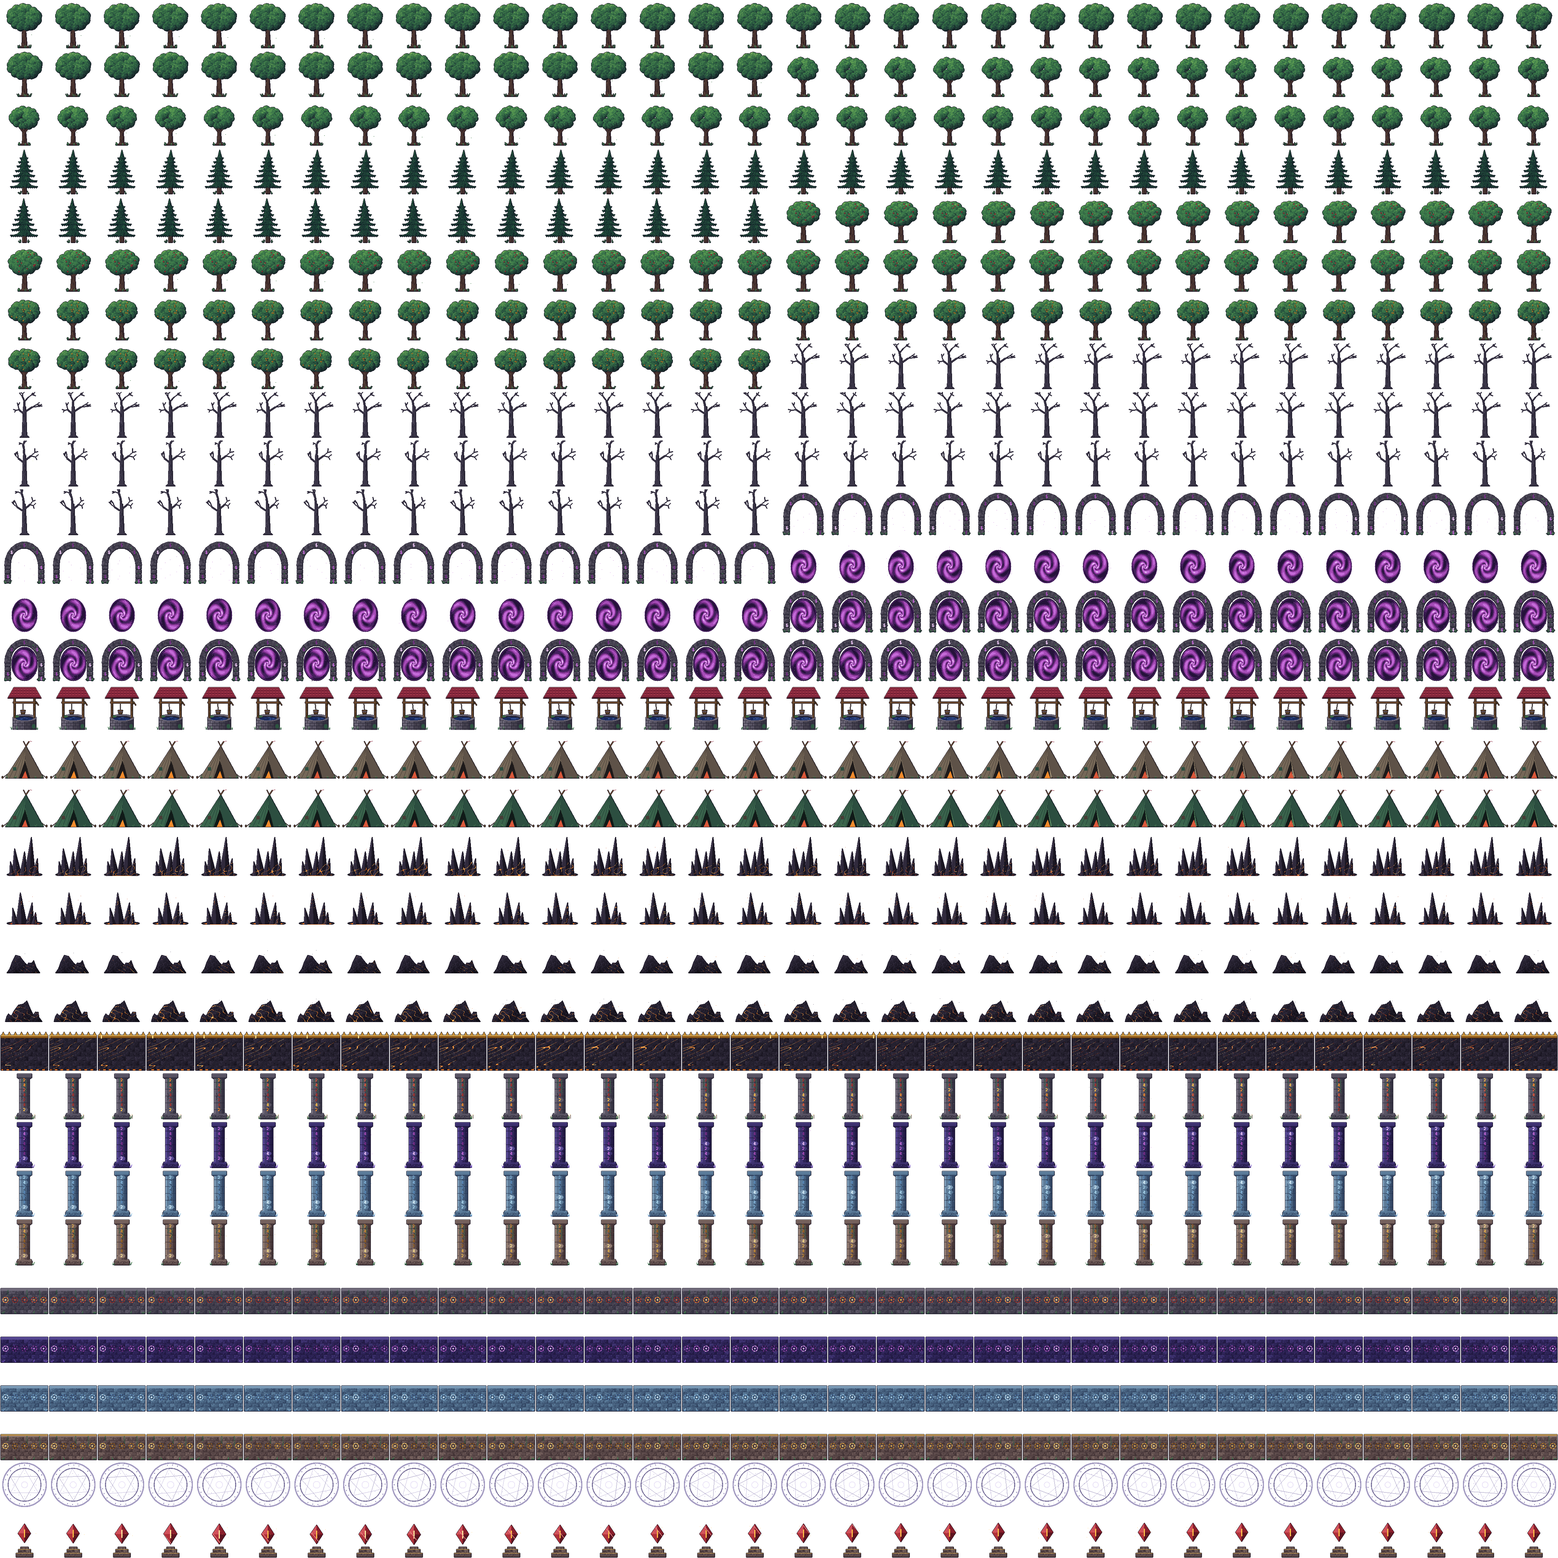
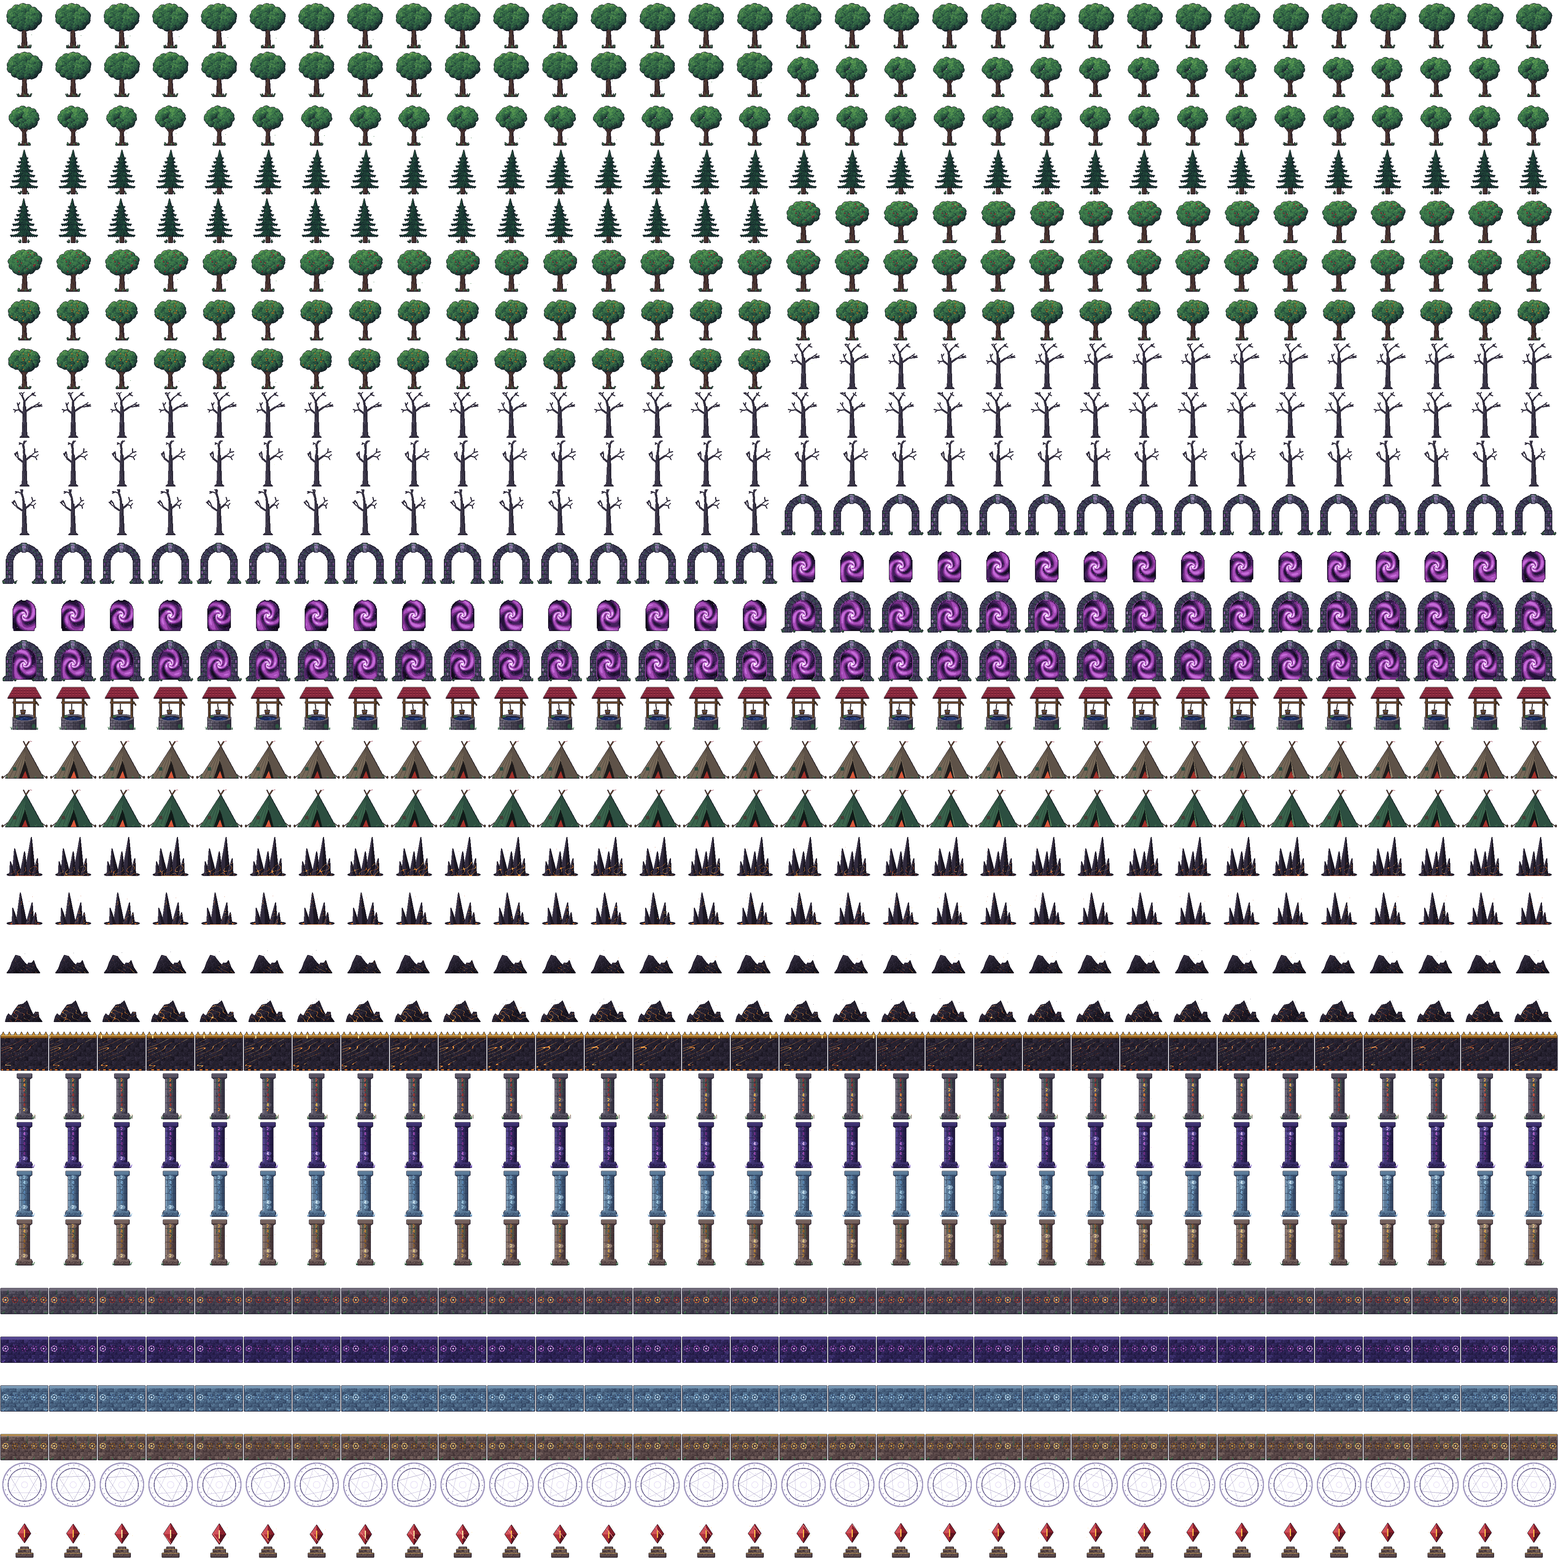
props3: исправленный арт Художника — портал в форме props2 (арка + скруглённый вихрь), чистка _glow (README §7a/§7b)
- листы p64/b128/x64 (+_glow), атлас, README, SELFCHECK; ключи/кадры/позиции прежние
- fallback_v2.json пуст (портал снова из props3); механизм и переключатель «🖼 Графика» → fallbackV2 остаются
- lightEmitter: статичные огни (все, кроме качающихся MOVING) — центроид объединения всех кадров (u), по README §7b
- тесты: эмиттер = общий центроид ±1 px и одна точка на все кадры, сверка с таблицей §7b ±1.5 px, пустой _glow у ключей без свечения;
  стены арены без рун-свечения — по решению Художника
- debug.mood(k) — настроение сцены для снимков «день/ночь»; props3-shots SHOTS=portalfix

Changed region(s): [[0.0, 0.3125, 1.0, 0.4375]]

diff --git a/src/pages/MorrisCurse/_core/engine/lightEmitter.js b/src/pages/MorrisCurse/_core/engine/lightEmitter.js
@@ -1,6 +1,7 @@
 // Точка излучения огня (фонарь — у головы фонаря, факел — у пламени, костёр — у огня), а не центр текстуры спрайта.
 // Источник — центроид светящихся пикселей кадра *_glow (вес = яркость × альфа), посчитан по кадрам генератором
 // tools/mc-sprites/light-emitters.mjs → assets/mc/light_emitters.json (оба набора: v2 props2 и v3 props3). OVERRIDE — ручные правки.
+// Статичные огни (static: все, кроме качающихся MOVING) — одна точка u: центроид объединения всех кадров (README §7b), остальные — по кадрам.
 // Ореол ставится в эту точку (за спрайтом), пятно света — на землю прямо под ней (atmosphere.js).
 import E from '../../../../assets/mc/light_emitters.json';
 import { PROP_SET, GFX } from './gfxCfg.js';
@@ -20,7 +21,7 @@ export function lightEmitter(key, frame = 0, set = PROP_SET) {
   const S = E.sets[set], d = S?.keys[key]; if (!d) return null;
   const f = ((Math.floor(frame) % d.frames) + d.frames) % d.frames;
   const ov = adminOv(set, key) || OVERRIDE[`${set}:${key}`];
-  const p = (Array.isArray(ov) ? ov : ov?.[f]) || d.pts[f] || d.pts.find(Boolean); if (!p) return null;
+  const p = (Array.isArray(ov) ? ov : ov?.[f]) || (d.static && d.u) || d.pts[f] || d.pts.find(Boolean); if (!p) return null; // статичный — общий центроид всех кадров
   return { dx: (p[0] - d.fw / 2) / S.pxm, h: (d.fh - p[1]) / S.pxm, px: p[0], py: p[1], frames: d.frames, fps: d.fps };
 }
 /** есть ли у ключа таблица точек (источник света с *_glow) */

diff --git a/src/pages/MorrisCurse/_core/game.js b/src/pages/MorrisCurse/_core/game.js
@@ -1947,6 +1947,7 @@ async function boot(canvasId, username, userId, api) {
       aim: () => ({ ...aim, autoAttack }),
       selectClass: (id) => classSelect.onSelect(id),
       setZoom: (z) => { stage.view.targetZoom = z; stage.view.zoom = z; },
+      mood: (k) => { atmo.moodOverride = k || null; return atmo.moodOverride; }, // настроение сцены принудительно (hub — ночь, b_stone — нейтральный «день»); null — по зоне
       freeCam: (o) => { stage.freeCam = o && Number.isFinite(o.x) && Number.isFinite(o.z) ? { x: o.x, z: o.z, zoom: o.zoom || 0 } : null; return stage.freeCam; }, // свободная камера (сцена, м); null — снова за героем
       setCells: (c) => { const z = Math.max(stage.view.minZoom, Math.min(stage.view.maxZoom, stage.zoomForCells(c))); stage.view.targetZoom = stage.view.zoom = z; return Math.round(stage.viewCells(z)); },
       cam: () => ({ zoom: stage.view.zoom, cells: Math.round(stage.viewCells()), min: Math.round(stage.viewCells(stage.view.maxZoom)), max: Math.round(stage.viewCells(stage.view.minZoom)),

diff --git a/src/pages/MorrisCurse/_core/engine/atmosphere.js b/src/pages/MorrisCurse/_core/engine/atmosphere.js
@@ -206,6 +206,7 @@ class Atmosphere {
   }
 
   moodFor(world, px, py) {
+    if (this.moodOverride && MOOD[this.moodOverride]) return this.moodOverride; // только debug.mood (снимки «день/ночь»)
     if (world === 'run_crypt') return 'crypt';
     if (world === 'run_abyss') return 'abyss';
     if (world !== 'arinar') return 'hub';

diff --git a/src/assets/mc/props3/README.md b/src/assets/mc/props3/README.md
@@ -14,7 +14,7 @@
 | props32_b128.png (+_glow) | 128×128 | 32 | 4096×4096 | деревья, порталы, колодец, шатры, Хеллфаер, колонны и стены арены, сигил, heart_of_abode |
 | props32_x64.png (+_glow) | 64×64 | 64 | 4096×640 | **отдельная страница**: замены 3D-мешей арены «Выживание» и ореолы света |
 
-Glow-листы повторяют раскладку базовых и смешиваются аддитивно, как в v2. Контур #1a1626, свет сверху-слева, якорь снизу по центру, земля на строке h−2, рамка 1 px пустая.
+Glow-листы повторяют раскладку базовых и смешиваются аддитивно, как в v2. Кто именно светит, см. §7b. Контур #1a1626, свет сверху-слева, якорь снизу по центру, земля на строке h−2, рамка 1 px пустая.
 
 ## 3. Что поменять в движке
 1. **propAtlas.js:** вместо жёсткого `['p32','b64']` перебирать `Object.keys(META.sheets).filter(s => !s.endsWith('_glow'))`, импортировать новые png и читать `props32_atlas.json`.
@@ -49,6 +49,70 @@ Glow-листы повторяют раскладку базовых и смеш
 
 ## 7. Не трогали
 Пропсы и здания Алказака, розу Чёрного Мага.
+
+
+## 7a. Портал: исправлен по фидбеку (форма как в props2)
+- `portal`, `portal_arch`, `portal_swirl` перерисованы. Силуэт арки и проём взяты **1:1 из старых props2**: старая маска увеличена ×2 со сглаживанием, по пикселям не перерисована. Поэтому арка та же: столбы, полукруглый свод, плинты. Вихрь — прямоугольник со скруглённым верхом, заполняет проём ровно как раньше (x 34..93, y 43..122 в ячейке 128). Круглого диска больше нет.
+- Новое в отрисовке: каменная кладка с клиньями свода, замковым камнем, плинтами, швами, трещинами и мхом. На внутренней грани арки отсвет вихря, но только в базовом листе, не в glow. Вихрь трёхрукавный, бесшовный, с ярким ядром, звёздами в тёмных полосах и частицами, которые затягивает внутрь.
+- Ключи, размер кадра 128×128 и число кадров прежние: portal 48@24, portal_arch 32@12, portal_swirl 32@16. Позиции в атласе не сдвинулись.
+- Всё излучение лежит в `_glow`: вихрь (яркие уровни), частицы и руны.
+- Сравнение: `previews/portal_fix.png` (старый p2 и новый, ×3, все три ключа) и `previews/portal_fix.gif` (portal, старый и новый, ×3, петля 4 с).
+
+## 7b. Излучение (_glow): кто светит и где
+Центр glow-пикселей годится как точка источника света. Аудит пройден по всем ключам. Убрано случайное свечение:
+- 1-px светлячки и мотыльки: кусты, камни, руины, указатель, колодец, бочка, мёртвые деревья, мотыльки у фонаря;
+- огоньки-призраки (wisp) у могил;
+- глаза черепов в skull_pile;
+- рассеянные искры и частицы у обелиска, пилона, осколка, руды, колонн арены, кристаллов арены и обломков;
+- отсвет внутри шатра: источника света в шатре нет, поэтому оставлен тусклым тёплым цветом в базе, без излучения;
+- руны стен арены: все 4 `arena_wall_*` теперь без glow.
+
+Там, где светятся руны или жилы с «бегущей» яркостью, маска glow теперь **постоянна**. Меняется только цвет, поэтому центр не гуляет от кадра к кадру. Руны на арке портала расставлены зеркально.
+
+**Светят** (центр в пикселях ячейки; смещение по X от якоря и высота над землёй в метрах при 20 px/м; «гуляние» — макс. СКО центра по кадрам, px):
+| ключ | что светит | центр (px) | dx, м | высота, м | гуляние, px | glow px |
+|---|---|---|---|---|---|---|
+| campfire | пламя и угли костра | (32.1, 73.2) | +0.03 | 1.04 | 0.6 | 620 |
+| torch | пламя факела | (32.1, 22.5) | +0.03 | 3.58 | 0.8 | 188 |
+| lantern | стекло лампы (мотыльки не светят) | (43.0, 33.5) | +0.57 | 3.02 | 0.9 | 120 |
+| crystal | грани кристалла | (30.4, 67.7) | -0.06 | 1.31 | 0.8 | 657 |
+| star_crystal | грани кристалла | (30.4, 67.8) | -0.06 | 1.31 | 0.8 | 657 |
+| obelisk | столбец рун (маска постоянна, бежит только яркость) | (31.0, 40.6) | -0.02 | 2.67 | 0.0 | 47 |
+| pylon | шар на вершине (кольца и дуги без излучения) | (32.0, 7.0) | +0.03 | 4.35 | 0.0 | 13 |
+| glitch_shard | кромка и пятна осколка (покачивание ±3 px) | (31.2, 40.2) | -0.01 | 2.69 | 2.8 | 162 |
+| mushroom | шляпки (пульс); споры не светят | (23.1, 67.7) | -0.42 | 1.31 | 2.8 | 45 |
+| tombstone | свеча у камня | (48.1, 85.5) | +0.83 | 0.42 | 0.2 | 2 |
+| tombstone_2 | свеча у камня | (48.1, 85.5) | +0.83 | 0.42 | 0.2 | 2 |
+| ore_node | жилы руды (маска постоянна) | (32.7, 83.5) | +0.06 | 0.53 | 0.0 | 48 |
+| ore_node_2 | жилы руды (маска постоянна) | (32.7, 84.4) | +0.06 | 0.48 | 0.0 | 70 |
+| totem | глаза трёх ликов (маска постоянна) | (32.0, 49.8) | +0.03 | 2.21 | 0.0 | 36 |
+| lava_vent | лава в жерле | (32.1, 86.9) | +0.03 | 0.36 | 0.0 | 305 |
+| hell_flame | пламя | (32.2, 71.8) | +0.03 | 1.11 | 0.6 | 744 |
+| brazier | огонь в чаше | (32.0, 38.4) | +0.03 | 2.78 | 0.7 | 427 |
+| portal_arch | руны арки, симметрично (маска постоянна) | (63.8, 82.7) | +0.02 | 2.16 | 0.0 | 115 |
+| portal_swirl | вихрь | (63.4, 83.3) | -0.00 | 2.13 | 2.0 | 2553 |
+| portal | вихрь + руны арки | (63.4, 83.3) | -0.00 | 2.13 | 1.9 | 2671 |
+| hell_spire | лавовые трещины у основания | (68.4, 115.8) | +0.25 | 0.51 | 1.3 | 172 |
+| hell_spire_2 | лавовые трещины у основания | (66.6, 115.6) | +0.16 | 0.52 | 0.9 | 118 |
+| hell_crag | лавовые трещины | (76.6, 113.4) | +0.66 | 0.63 | 2.0 | 29 |
+| hell_crag_2 | лавовые трещины | (55.1, 108.0) | -0.42 | 0.90 | 1.2 | 145 |
+| hell_wall | лавовые жилы | (48.6, 94.0) | -0.75 | 1.60 | 2.2 | 401 |
+| arena_column_crypt | руны + 3 свечи у основания | (63.7, 63.4) | +0.01 | 3.13 | 0.0 | 186 |
+| arena_column_abyss | столбец рун | (63.5, 61.7) | -0.00 | 3.21 | 0.0 | 180 |
+| arena_column_mirror | столбец рун | (63.5, 61.7) | -0.00 | 3.21 | 0.0 | 180 |
+| arena_column_abode | столбец рун | (63.5, 61.7) | -0.00 | 3.21 | 0.0 | 180 |
+| arena_sigil | весь знак (декаль на полу) | (64.0, 63.0) | +0.02 | 0.05 | 0.0 | 2638 |
+| heart_of_abode | сердце | (62.3, 60.1) | -0.06 | 3.29 | 2.4 | 718 |
+| arena_crystal_abyss | кристаллы | (31.0, 40.9) | -0.03 | 1.06 | 1.0 | 476 |
+| arena_crystal_mirror | кристаллы | (31.0, 40.9) | -0.03 | 1.06 | 1.0 | 476 |
+| arena_candles | огоньки свечей | (34.0, 42.5) | +0.13 | 0.97 | 0.5 | 17 |
+| arena_candles_abode | огоньки свечей | (34.0, 42.5) | +0.13 | 0.97 | 0.5 | 17 |
+| arena_stardot | точка (только glow) | (32.0, 39.0) | +0.03 | -0.35 | 0.0 | 103 |
+| light_halo_* / light_pool_* | ореол или пятно, только glow | (32, 31) | 0 | центр спрайта | 0 | — |
+
+У `arena_sigil` якорь (0.5, 0.5), высота считается от центра декали. Заметно «гуляют» только сами источники: покачивание `glitch_shard` (±3 px) и вращение вихря портала (~2 px ≈ 0.1 м). Если нужна полностью неподвижная точка, лучше брать центр по сумме всех кадров.
+
+**Не светят** (glow = null в атласе): bush, bush_2, bush_3, violets, violets_2, rock, rock_2, rock_3, ruin_pillar, ruin_pillar_2, barrel, barrel_2, crate, crate_2, fence, fence_2, signpost, mushroom_2, tombstone_3, bones, bones_2, skull_pile, cage, banner, banner_2, spikes, tree, tree_2, tree_3, pome_tree, pome_tree_2, dead_tree, dead_tree_2, well, tent, tent_2, arena_wall_crypt, arena_wall_abyss, arena_wall_mirror, arena_wall_abode, arena_rubble_crypt, arena_rubble_abyss, arena_rubble_mirror, arena_rubble_abode, arena_tombstone_crypt, arena_tombstone_abode, arena_bones, arena_tuft_crypt, arena_tuft_abyss.
 
 ## 8. Кадры и fps по ключам
 Петли бесшовные, в каждом кадре есть видимое изменение (проверено в SELFCHECK). Колонка `old` — значения из v2.
